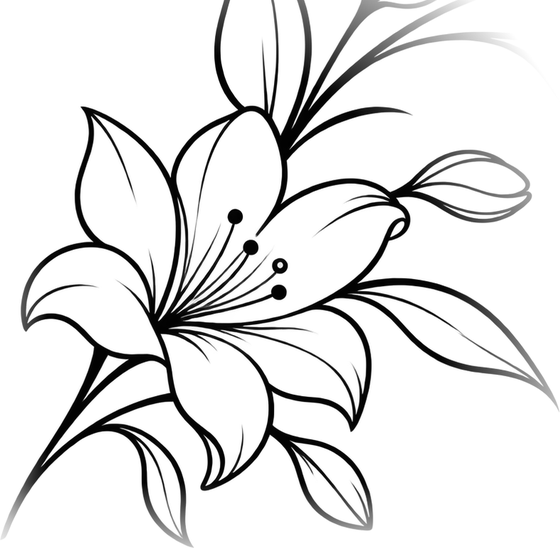
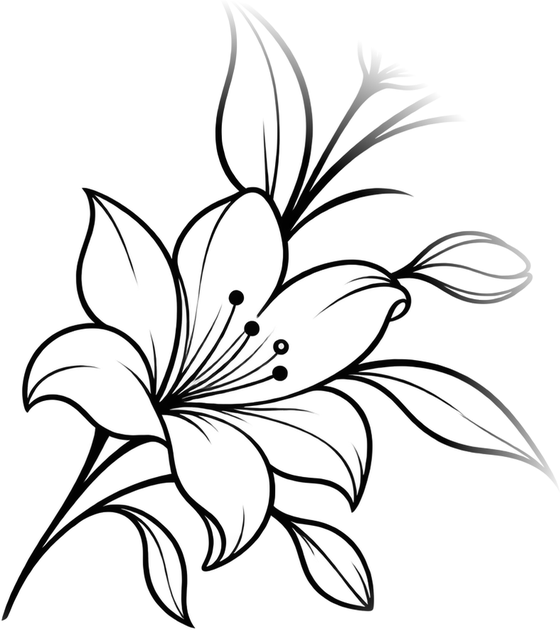
Fade the flower from the whole drawing, and check the file's own edges
The previous pass put the falloff in the wrong order: it cropped a
rectangle out of the drawing first and faded afterwards, so the crop did
the cutting and the fade arrived too late. A petal still ran off the top
of the file at 173 alpha out of 255 — a straight edge through the ink,
which is exactly what it looked like.

The halo now works on the whole drawing, widened with a transparent
margin, and the file's bounds are whatever is left once the ink has gone
out. Nothing reaches an edge: the worst pixel on any of the four borders
is 6 out of 255, and the script refuses to write a haloed fragment above
8 — a mistake that silently produced a cut should not be able to happen
twice. The source drawing itself never touches its own canvas; its ink
stops 27px short of the nearest side, so there is nothing to rescue at
the boundary.

The per-side fades are gone with it. They were papering over the same
ordering mistake, and once the halo runs on the whole drawing there is
nothing left for them to do.

Contrast unchanged: 5.49:1 for the legal pages, 9.45:1 on the 404, and
the status card's own text clears its threshold at every width from 360
to 2560.

Claude-Session: https://claude.ai/code/session_019UoUbTyNjngeRaKzvfjkfZ

Changed region(s): [[0.0, 0.0, 1.0, 1.0], [0.2429, 0.2482, 0.2732, 0.2792], [0.0607, 0.4653, 0.0911, 0.4964]]

diff --git a/src/styles/global.css b/src/styles/global.css
@@ -1080,7 +1080,7 @@ section {
   top: clamp(90px, 14vw, 150px);
   right: clamp(20px, 6vw, 110px);
   width: clamp(130px, 20vw, 250px);
-  aspect-ratio: 560 / 548;
+  aspect-ratio: 560 / 630;
   background: var(--ink);
   opacity: 0.085;
   -webkit-mask-image: url('/motif-lys-fleur.png');
@@ -1276,7 +1276,7 @@ section {
      qu'elle, décollée de son angle. C'est la hauteur seule qui règle.
      Vérifié de 360 à 2 560 px : elle tient partout, avec de la marge. */
   height: clamp(104px, 72%, 196px);
-  aspect-ratio: 560 / 548;
+  aspect-ratio: 560 / 630;
   background: var(--ink);
   opacity: 0.1;
   pointer-events: none;

diff --git a/scripts/prepare-motif.py b/scripts/prepare-motif.py
@@ -15,13 +15,24 @@ la page affiche un rectangle plein à la place du dessin. Le décor tirant
 sa couleur de la feuille de style, les canaux de couleur du fichier ne
 servent à rien et partent à zéro.
 
-La troisième, c'est le **fondu**. Un fragment prélevé dans un dessin d'un
-seul tenant est forcément coupé quelque part, et une découpe franche se
+La troisième, c'est le **halo**. Un fragment prélevé au rectangle dans un
+dessin d'un seul tenant est coupé quelque part, et une coupe franche se
 voit : elle passe au milieu d'un pétale et le dessin a l'air cassé. La
-fleur est donc détourée non pas par une boîte mais par un halo — pleine
-au centre, éteinte avant le bord — si bien que la fleur est entière et
-que ce sont la tige et les feuilles, elles, qui se dissipent. Une tige
-qui s'efface se lit comme une tige qui continue ; un pétale tranché, non.
+fleur est donc détourée par un halo — pleine au centre, éteinte avant le
+bord — si bien que la fleur reste entière et que ce sont la tige et les
+feuilles qui se dissipent. Une tige qui s'efface se lit comme une tige
+qui continue ; un pétale tranché, non.
+
+Deux conditions pour que ça marche, et la seconde est vérifiée à la
+sortie parce qu'elle avait été manquée une première fois :
+
+  · le halo travaille sur le dessin **entier**, élargi d'une marge
+    transparente. Découper d'abord puis fondre ensuite ne sert à rien :
+    c'est la découpe qui tranche, et le fondu arrive trop tard ;
+  · le dessin doit s'éteindre **avant** le bord du fichier. Le contrôle
+    plus bas relit les quatre bords de chaque sortie et refuse d'écrire
+    si l'encre y est encore visible. Le dessin d'origine, lui, ne touche
+    pas son propre cadre : son encre s'arrête à 27 px du plus proche.
 
     pip install Pillow numpy
     python3 scripts/prepare-motif.py brand/motif-lys-original.png
@@ -39,45 +50,44 @@ from PIL import Image
 # le bas-gauche, la tige monte vers le haut-droite.
 #
 # `halo` : (cx, cy, plein, nul) en coordonnées de la source — opaque
-# jusqu'au rayon `plein`, éteint à partir de `nul`.
-# `bords` : largeur du fondu en pixels sur (haut, droite, bas, gauche),
-# pour les extrémités que le halo laisse encore vives. Le dessin d'origine
-# est lui-même coupé par son cadre en bas à gauche.
+# jusqu'au rayon `plein`, éteint à partir de `nul`. Le centre est celui
+# de la fleur, là où convergent les étamines ; `plein` couvre le pétale
+# le plus long (365 px), `nul` laisse 180 px pour se dissiper.
 DECOUPES = {
     # le rameau entier
     'motif-lys.png': dict(boite=None, largeur=620),
     # boutons et feuilles
     'motif-lys-branche.png': dict(boite=(500, 0, 1430, 430), largeur=560),
     # la fleur entière, dissipée dans sa tige
-    'motif-lys-fleur.png': dict(
-        boite=(0, 300, 1050, 1101),
-        largeur=560,
-        halo=(310, 735, 360, 600),
-        bords=(0, 0, 120, 110),
-    ),
+    'motif-lys-fleur.png': dict(boite=None, largeur=560, halo=(295, 740, 380, 560)),
 }
 SORTIE = pathlib.Path('public')
 
+# Seuil de rognage. Bas pour un fragment au halo, dont la fin du dégradé
+# est justement ce qui évite la coupe ; celui d'origine pour les autres,
+# qui n'ont pas de dégradé à préserver.
+SEUIL_HALO = 2
+SEUIL_FRANC = 6
 
-def halo(alpha: np.ndarray, boite, reglage) -> np.ndarray:
-    x0, y0 = boite[0], boite[1]
+# Au-delà, l'encre sur un bord du fichier se voit comme un trait coupé.
+# 6 sur 255, et le décor n'étant posé qu'à 10 % d'opacité, il en reste
+# deux millièmes.
+BORD_MAX = 8
+
+
+def pose_halo(alpha: np.ndarray, reglage) -> np.ndarray:
+    """Éteint le dessin autour d'un centre, sur un cadre élargi d'autant."""
     cx, cy, plein, nul = reglage
-    yy, xx = np.mgrid[y0 : y0 + alpha.shape[0], x0 : x0 + alpha.shape[1]]
-    return alpha * np.clip((nul - np.hypot(xx - cx, yy - cy)) / (nul - plein), 0, 1)
-
-
-def bords(alpha: np.ndarray, largeurs) -> np.ndarray:
+    marge = int(np.ceil(nul)) + 8
     h, w = alpha.shape
-    haut, droite, bas, gauche = largeurs
-    if haut:
-        alpha = alpha * np.clip(np.arange(h)[:, None] / haut, 0, 1)
-    if bas:
-        alpha = alpha * np.clip((h - 1 - np.arange(h))[:, None] / bas, 0, 1)
-    if gauche:
-        alpha = alpha * np.clip(np.arange(w)[None, :] / gauche, 0, 1)
-    if droite:
-        alpha = alpha * np.clip((w - 1 - np.arange(w))[None, :] / droite, 0, 1)
-    return alpha
+    large = np.zeros((h + 2 * marge, w + 2 * marge), np.float32)
+    large[marge : marge + h, marge : marge + w] = alpha
+    yy, xx = np.mgrid[-marge : h + marge, -marge : w + marge]
+    return large * np.clip((nul - np.hypot(xx - cx, yy - cy)) / (nul - plein), 0, 1)
+
+
+def bord_max(a: np.ndarray) -> float:
+    return float(max(a[0].max(), a[-1].max(), a[:, 0].max(), a[:, -1].max()))
 
 
 def main(src: str) -> None:
@@ -88,16 +98,12 @@ def main(src: str) -> None:
         a = np.asarray(source.crop(boite))[:, :, 3].astype(np.float32)
 
         if 'halo' in reglages:
-            a = halo(a, boite, reglages['halo'])
-        if 'bords' in reglages:
-            a = bords(a, reglages['bords'])
+            a = pose_halo(a, reglages['halo'])
 
         # Rogner au dessin : une découpe laisse toujours du vide autour,
-        # et une marge invisible fausserait le placement dans la page. Le
-        # seuil vaut 6 sur 255, et il rogne donc aussi la toute fin des
-        # fondus — à 2 % du trait plein, et le décor n'étant affiché qu'à
-        # 10 % d'opacité, il n'y restait de toute façon rien de visible.
-        ys, xs = np.nonzero(a > 6)
+        # et une marge invisible fausserait le placement dans la page.
+        seuil = SEUIL_HALO if 'halo' in reglages else SEUIL_FRANC
+        ys, xs = np.nonzero(a > seuil)
         a = a[ys.min() : ys.max() + 1, xs.min() : xs.max() + 1]
 
         largeur = reglages['largeur']
@@ -105,10 +111,21 @@ def main(src: str) -> None:
         im = im.resize((largeur, round(im.height * largeur / im.width)), Image.LANCZOS)
 
         fini = np.asarray(im)
+        if 'halo' in reglages and bord_max(fini) > BORD_MAX:
+            raise SystemExit(
+                f'{nom} : le dessin touche encore le bord du fichier '
+                f'({bord_max(fini):.0f} sur 255, maximum admis {BORD_MAX}). '
+                f'Élargir le halo, ou le recentrer.'
+            )
+
         out = SORTIE / nom
         Image.fromarray(np.dstack([np.zeros_like(fini), fini]), 'LA').save(out, optimize=True)
+        # Le bord n'est relevé que pour les fragments au halo. Les deux
+        # autres sont posés en débordant volontairement de leur bloc :
+        # chez eux, de l'encre au bord est le résultat cherché.
+        controle = f'   bord {bord_max(fini):.0f}/255' if 'halo' in reglages else ''
         print(f'{out}  {im.width}x{im.height}  {out.stat().st_size / 1024:.0f} Ko'
-              f'   -> aspect-ratio: {im.width} / {im.height}')
+              f'{controle}   -> aspect-ratio: {im.width} / {im.height}')
 
 
 if __name__ == '__main__':

diff --git a/README.md b/README.md
@@ -266,13 +266,22 @@ changeant de fragment, de coin, d'échelle et de couleur qu'il reste un
 ornement.
 
 Les deux fleurs sont **posées**, pas accrochées à un bord — et c'est le
-fichier lui-même qui le permet. Un fragment prélevé dans un dessin d'un
-seul tenant est forcément coupé quelque part, et une découpe franche se
+fichier lui-même qui le permet. Un fragment prélevé au rectangle dans un
+dessin d'un seul tenant est coupé quelque part, et une coupe franche se
 voit : la première version tranchait un pétale, et le dessin avait l'air
 cassé. La fleur est donc détourée par un **halo** plutôt que par une
-boîte : pleine au centre, éteinte avant le bord. La fleur est entière ;
+boîte : pleine au centre, éteinte avant le bord. La fleur reste entière ;
 ce sont la tige et les feuilles qui se dissipent. Une tige qui s'efface
 se lit comme une tige qui continue, un pétale tranché non.
+
+Deux conditions, et la seconde a été manquée une première fois. Le halo
+travaille sur le dessin **entier**, élargi d'une marge transparente :
+découper d'abord et fondre ensuite ne sert à rien, c'est la découpe qui
+tranche et le fondu arrive trop tard. Et le dessin doit s'éteindre avant
+le bord du fichier — `prepare-motif.py` relit les quatre bords de sa
+sortie et **refuse d'écrire** si l'encre y dépasse 8 sur 255. Le contrôle
+tient de lui-même : le dessin d'origine ne touche pas son propre cadre,
+son encre s'arrête à 27 px du plus proche.
 
 Dans la carte « en ce moment », elle est réglée par sa **hauteur** et non
 par sa largeur. La carte n'a pas la même forme selon la colonne : 175 px
